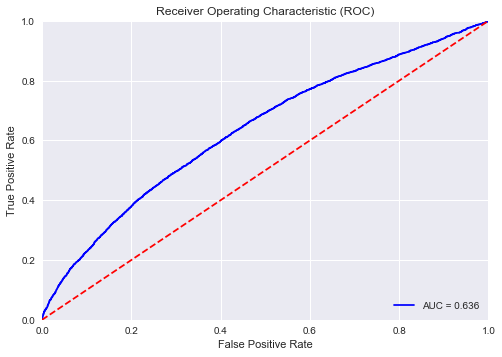
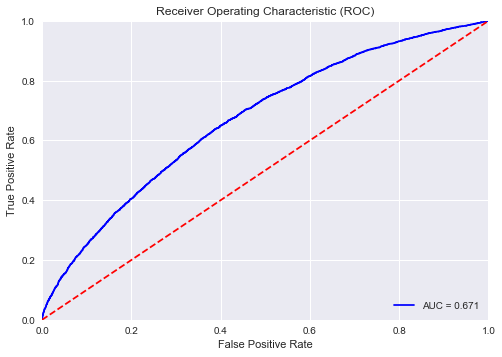
update images

Changed region(s): [[0.0896, 0.0616, 0.9562, 0.8627], [0.9263, 0.8319, 0.9562, 0.8627]]

diff --git a/reduced.py b/reduced.py
@@ -463,14 +463,24 @@ model_test_results = pd.DataFrame({'trueValue': main_scaled_df_test_y, \
 fpr, tpr, threshold = roc_curve(model_test_results.trueValue, \
                                 model_test_results.predictedValue)    
 
+
+
 roc_auc = auc(fpr, tpr)
 
 log_loss(main_scaled_df_test_y, model_pred_y)
 
-plt.title("ROC Curve. Area under Curve: {:.3f}".format(roc_auc))
-plt.xlabel('False Positive Rate')
+# plot ROC
+plt.title('Receiver Operating Characteristic (ROC)')
+plt.plot(fpr, tpr, 'b', label = 'AUC = %0.3f' %roc_auc)
+plt.legend(loc='lower right')
+plt.plot([0,1], [0,1], 'r--')
+plt.xlim([0.0,1.0])
+plt.ylim([0.0,1.0])
 plt.ylabel('True Positive Rate')
-_ = plt.plot(fpr, tpr, 'r')
+plt.xlabel('False Positive Rate')
+plt.show()
+
+print('AUC score:', roc_auc)
     
 ###############################
 # find median values for churn and no churn predction
